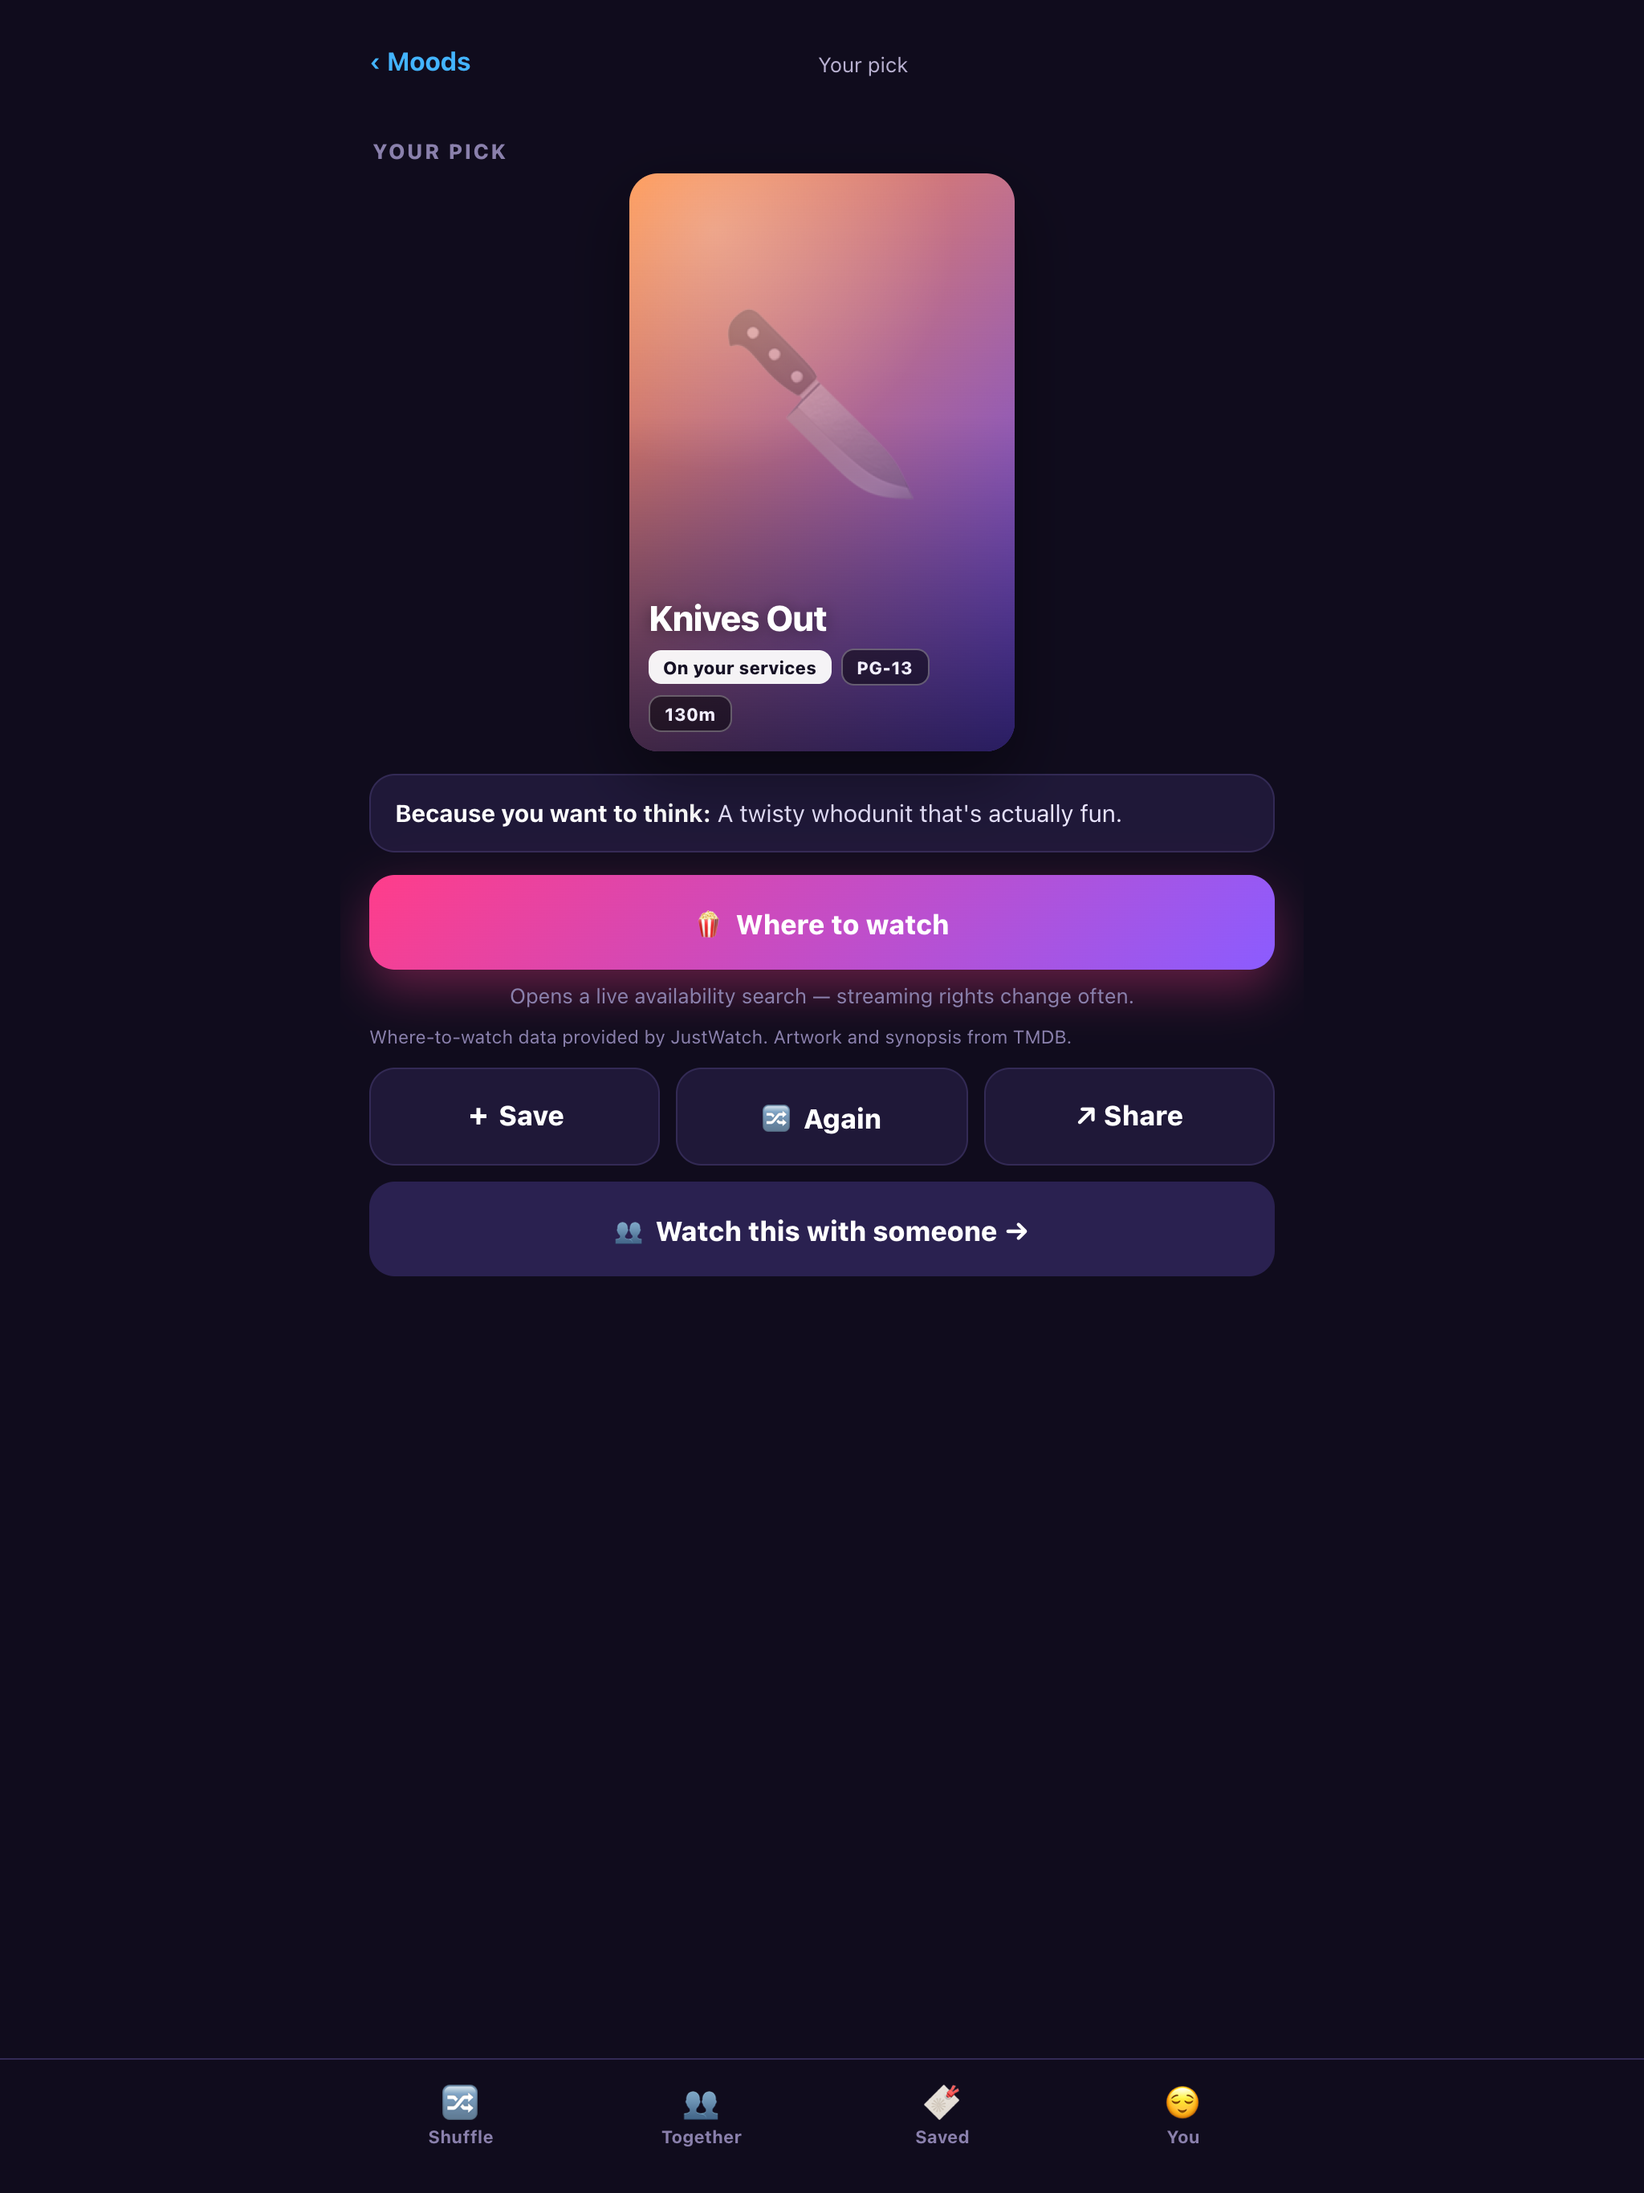
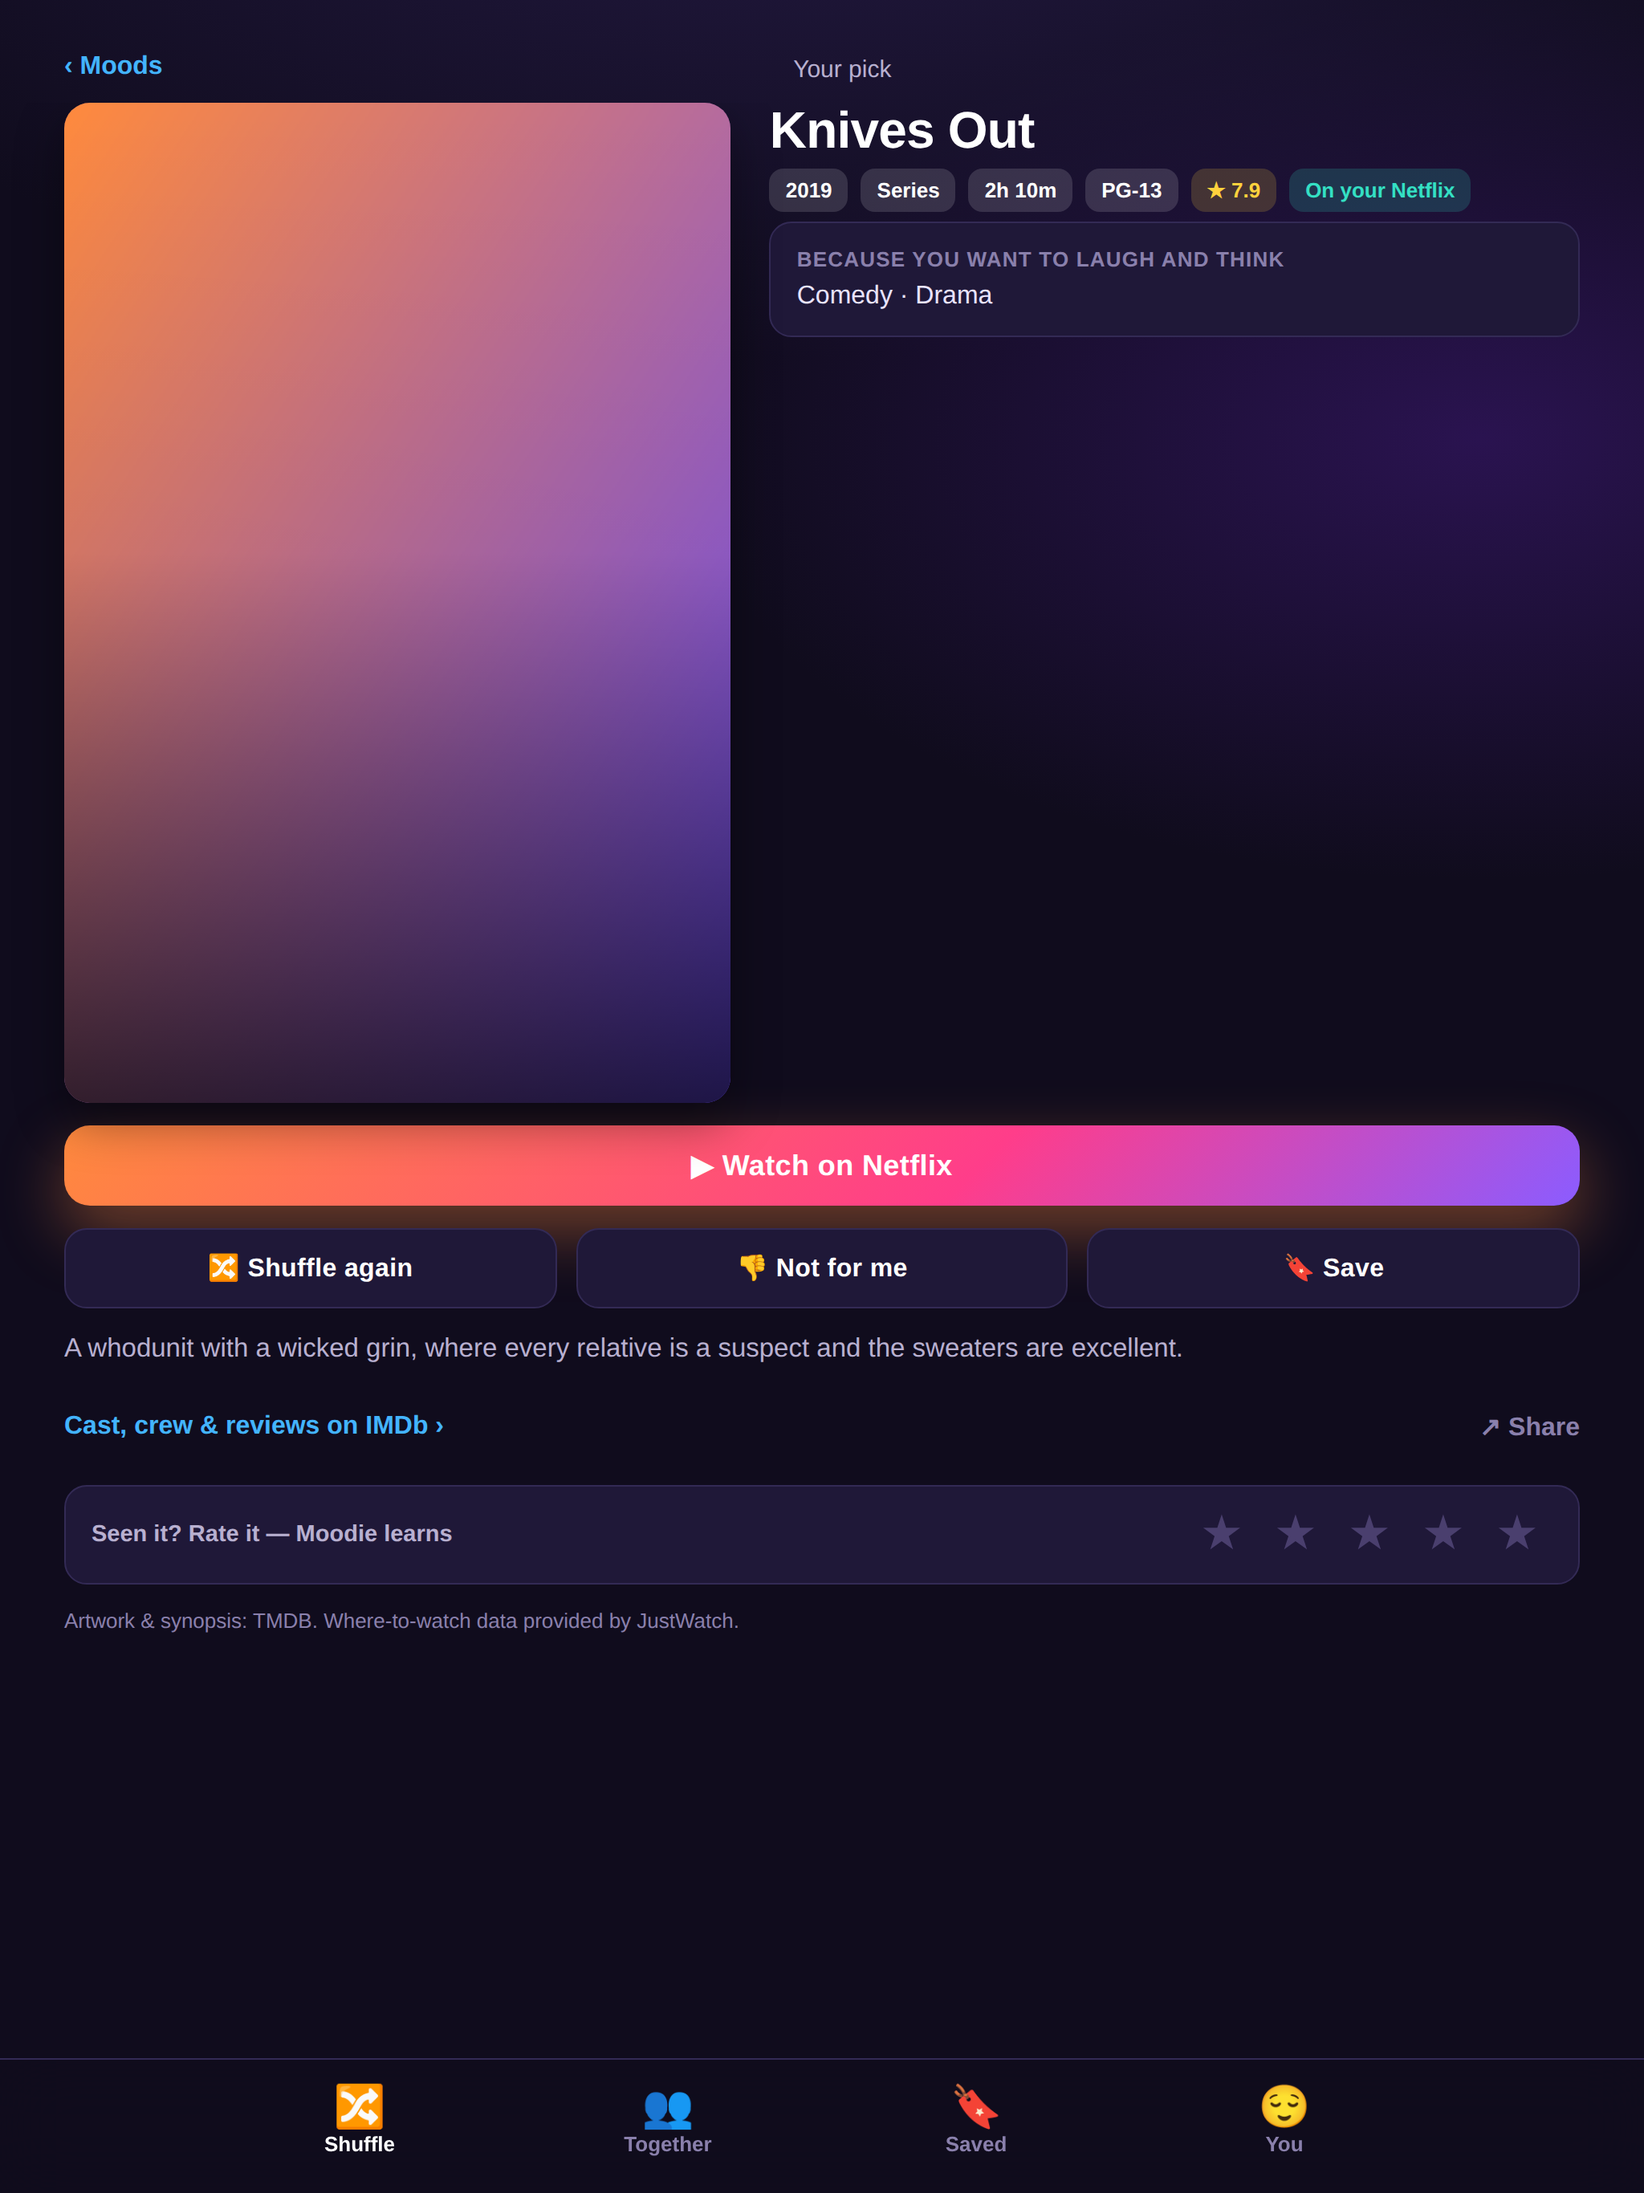
Moodie 1.2: fill the iPad and iPhone Duo, and change layout sideways (#2)
Jonathan (2026-10-11): the big-screen layouts must cover the whole screen
and visibly change in landscape, for every app.

- www/index.html: replace the 1.1 rule that capped every screen at a 640px
  centred column. >=600pt (Duo open, iPad portrait) uses the full width
  with larger type and taps; >=740pt moods become a five-across wall of
  tall tiles; >=860pt You and Together setup split into two columns; when
  >=860pt and wider than tall the pick puts the poster beside everything
  else. Below 600pt nothing changes (iPhone and Duo closed renders are
  byte-identical to 1.1). Tab bar spans the width, tabs centred.
- codemagic.yaml: iPad orientations written explicitly (all four) and read
  back; the build fails if they or TARGETED_DEVICE_FAMILY "1,2" are
  missing (ITMS-90474). The render step fails if no 13" iPad set exists.
  Marketing version 1.2.
- scripts/layout-check.mjs (npm run layout): renders every screen at 8
  sizes, fails on sideways scroll or an unreachable last control.
- New 13" iPad screenshots from the shipping UI; What's New for 1.2.
  TMDB/JustWatch credits and content-rights answers unchanged.

Claude-Session: https://claude.ai/code/session_01QBZG1zZFfE4ox5ZUSm5Rv4

diff --git a/www/index.html b/www/index.html
@@ -189,12 +189,148 @@
   .sentinel{height:1px}
   .sticky{position:sticky; top:0; z-index:5; background:var(--bg); padding:8px 0 10px; margin:0 -18px; padding-left:18px; padding-right:18px}
 
-  @media(min-width:620px){
-    .topbar,.screen-body,.pick{max-width:640px; margin-left:auto; margin-right:auto; width:100%}
-    .tabbar{justify-content:center} .tabbar .tab{flex:0 1 150px}
-    .grid3{grid-template-columns:repeat(5,1fr)}
-    .svcgrid{grid-template-columns:repeat(3,1fr)}
-    .pick .hero .poster{max-height:44vh}
+  /* ---- Big screens: iPhone Duo open, iPad (1.2) ------------------------------------
+     Width-based only, no device sniffing. Below 600px NOTHING here applies, so every
+     iPhone (and the Duo closed, ~466pt) renders exactly as 1.1 did.
+     The 1.1 rule capped every screen at a 640px column in the middle of the iPad, which
+     left most of the screen empty and never changed when the iPad turned sideways. */
+  @media(min-width:600px){
+    /* Duo open (~669), iPad portrait (744-1024): use the whole width, bigger type + taps. */
+    .topbar{padding:20px 32px 8px; min-height:60px}
+    .topbar h1{font-size:30px}
+    .topbar .sub{font-size:15px}
+    .screen-body{padding:0 32px 130px}
+    .screen-body.no-tab{padding-bottom:calc(var(--sab) + 24px)}
+    .screen-body.lock{padding-bottom:0}
+    .sticky{margin:0 -32px; padding-left:32px; padding-right:32px}
+    .ob-actions{padding-left:32px!important; padding-right:32px!important; justify-content:center}
+    .ob-actions .btn{max-width:420px}
+    .search{font-size:17px; padding:15px 16px}
+    .counter,.hint{font-size:14px}
+    .icon-btn{width:44px; height:44px}
+
+    #ob1 h1{font-size:44px!important}
+    #ob1 p{font-size:19px!important; max-width:560px}
+    #ob1 .mascot{width:156px!important; height:156px!important}
+
+    .mood-grid{grid-template-columns:repeat(2,1fr); gap:14px}
+    .mood{min-height:88px; padding:18px 16px; border-radius:22px; gap:12px}
+    .mood .em{font-size:38px}
+    .mood .lbl{font-size:19px}
+    .mood .hint2{font-size:13.5px}
+    .svcgrid{grid-template-columns:repeat(3,1fr); gap:12px}
+    .svc{min-height:60px}
+    .svc .nm{font-size:16px}
+    .grid3{grid-template-columns:repeat(4,1fr); gap:14px}
+    .grid2{grid-template-columns:repeat(3,1fr); gap:16px}
+    .poster .ptitle{font-size:15px}
+    .poster .psub{font-size:12.5px}
+
+    /* The screen body already gives the side margin here, so the pick lines up with the
+       back button instead of being indented twice. */
+    .pick{padding:0; gap:14px}
+    .pick .hero{gap:24px}
+    .pick .hero .poster{width:44%; max-height:50vh}
+    .pick .title{font-size:32px}
+    .pick .meta{gap:8px}
+    /* .badge.svc / .badge.star share a class name with the service and star buttons; on a
+       big screen don't let those button sizes leak into the little badges. */
+    .pick .badge{font-size:13px; padding:6px 10px; min-height:0; border:none; border-radius:9px}
+    .pick .why{font-size:16px; padding:14px 16px}
+    .pick .why b{font-size:13px}
+    .pick .quick{gap:12px}
+    .pick .quick .btn{font-size:16px; padding:14px 10px}
+    .pick .syn{font-size:16.5px; -webkit-line-clamp:6}
+    .pick .links .pill{font-size:16px; min-height:44px}
+    .rate{padding:8px 16px}
+    .rate .lbl{font-size:14.5px}
+    .stars .star{font-size:30px; min-width:44px; min-height:44px; text-align:center}
+    .credit{font-size:13px}
+
+    .card{padding:20px; border-radius:22px}
+    .card h3{font-size:19px}
+    .card p{font-size:15.5px}
+    .rowitem{min-height:56px}
+    .rowitem .name{font-size:17px}
+    .rowitem .desc{font-size:14px}
+    .section-title{font-size:14px}
+    .chip{font-size:15px; padding:11px 15px; min-height:44px}
+    .input{font-size:16px; padding:14px 16px}
+
+    /* The tab bar spans the full width; its four tabs sit together in the middle, the way
+       iPad tab bars do, instead of being flung to the four corners of a 1366pt screen. */
+    .tabbar{justify-content:center; gap:12px; height:calc(var(--sab) + 84px)}
+    .tabbar .tab{flex:0 1 180px; font-size:13px; padding:8px 16px}
+    .tab .ti{font-size:26px}
+    .toast{font-size:15px; bottom:calc(var(--sab) + 108px)}
+  }
+  @media(min-width:740px){
+    /* Moods: one wall of ten tall tiles, five across, emoji above the words. */
+    .mood-grid{grid-template-columns:repeat(5,1fr)}
+    .mood{flex-direction:column; align-items:flex-start; justify-content:space-between; min-height:clamp(124px,17vh,200px); padding:16px}
+  }
+  @media(min-width:860px){
+    /* Duo open sideways (~951), iPad landscape (1133-1366), 13" iPad portrait (1024).
+       The layout changes shape here, not just size. */
+    .topbar{padding-left:40px; padding-right:40px}
+    .screen-body{padding-left:40px; padding-right:40px}
+    .sticky{margin:0 -40px; padding-left:40px; padding-right:40px}
+    .ob-actions{padding-left:40px!important; padding-right:40px!important}
+
+    .mood-grid{gap:16px}
+    .mood .em{font-size:44px}
+    #home .shuffle-btn,#groupsBody > .btn{max-width:560px; margin-left:auto; margin-right:auto}
+    .svcgrid{grid-template-columns:repeat(4,1fr)}
+    .grid3{grid-template-columns:repeat(6,1fr)}
+    .grid2{grid-template-columns:repeat(5,1fr); gap:18px}
+
+    /* You: two columns of cards. Children of #profileBody, in renderProfile() order:
+       1 header · 2/3 services · 4/5 picks · 6/7 ratings · 8/9 pals · 10/11 about · 12 credit line */
+    #profileBody{display:grid; grid-template-columns:minmax(0,1fr) minmax(0,1fr); column-gap:28px; align-content:start; align-items:start}
+    #profileBody > :nth-child(1),#profileBody > :nth-child(n+10){grid-column:1 / -1}
+    #profileBody > :nth-child(2){grid-column:1; grid-row:2}
+    #profileBody > :nth-child(3){grid-column:1; grid-row:3}
+    #profileBody > :nth-child(4){grid-column:2; grid-row:2}
+    #profileBody > :nth-child(5){grid-column:2; grid-row:3}
+    #profileBody > :nth-child(6){grid-column:1; grid-row:4}
+    #profileBody > :nth-child(7){grid-column:1; grid-row:5}
+    #profileBody > :nth-child(8){grid-column:2; grid-row:4}
+    #profileBody > :nth-child(9){grid-column:2; grid-row:5}
+    #profileBody .svcgrid{grid-template-columns:repeat(2,1fr)}
+
+    /* Together setup: intro across the top, "who" and "limit" side by side. (:has() needs
+       iOS 15.4+; older iPads simply keep the single column, which still fits.) */
+    #groupsBody:has(#pairCap){display:grid; grid-template-columns:minmax(0,1fr) minmax(0,1fr); column-gap:28px; align-content:start; align-items:start}
+    #groupsBody:has(#pairCap) > :nth-child(1),#groupsBody:has(#pairCap) > :nth-child(6){grid-column:1 / -1}
+    #groupsBody:has(#pairCap) > :nth-child(2){grid-column:1; grid-row:2}
+    #groupsBody:has(#pairCap) > :nth-child(3){grid-column:1; grid-row:3}
+    #groupsBody:has(#pairCap) > :nth-child(4){grid-column:2; grid-row:2}
+    #groupsBody:has(#pairCap) > :nth-child(5){grid-column:2; grid-row:3}
+    #groupsBody:has(#pairCap) > .btn{width:100%; margin-top:24px!important}
+  }
+  @media(min-width:860px) and (min-aspect-ratio:1/1){
+    /* Sideways: the pick becomes poster-left / everything-else-right, sized so the poster
+       fits the height that is left between the top bar and the tab bar. */
+    .pick{display:grid; grid-template-columns:auto minmax(0,1fr); column-gap:36px; row-gap:14px; align-content:start; height:auto}
+    .pick .hero{display:contents}
+    .pick .hero .poster{grid-column:1; grid-row:1 / span 7; align-self:start; max-height:none;
+      width:min(34vw, calc((100vh - var(--sat) - var(--sab) - 190px) * 2 / 3))}
+    .pick > :not(.hero),.pick .hero .info{grid-column:2; min-width:0}
+    .pick .grow{display:none}
+    .pick .bottom{grid-column:1 / -1}
+    /* If a short window cannot hold it all, the pick scrolls rather than hiding the stars. */
+    .screen-body.lock{overflow-y:auto}
+  }
+  @media(min-width:860px) and (min-aspect-ratio:1/1) and (max-height:760px){
+    /* Duo open sideways (~669 tall): tighten so the whole pick fits without scrolling. */
+    .pick{row-gap:10px}
+    .pick .title{font-size:26px}
+    .pick .why{padding:10px 14px; font-size:15px}
+    .pick .quick .btn{font-size:15px; padding:11px 8px}
+    .pick .syn{font-size:15px; -webkit-line-clamp:2}
+    .pick .links .pill{padding:0}
+    .stars .star{font-size:26px}
+    .pick .bottom{padding-bottom:calc(var(--sab) + 90px)}
   }
 </style>
 </head>
@@ -224,7 +360,7 @@
       <div class="svcgrid" id="svcGrid"></div>
       <div class="hint" id="svcNote"></div>
     </div>
-    <div style="padding:12px 18px calc(var(--sab) + 12px);display:flex;gap:10px">
+    <div class="ob-actions" style="padding:12px 18px calc(var(--sab) + 12px);display:flex;gap:10px">
       <button class="btn secondary" style="flex:.5" onclick="showScreen('ob3');buildTaste()">Skip</button>
       <button class="btn" style="flex:1" id="svcContinue" onclick="showScreen('ob3');buildTaste()">Continue</button>
     </div>
@@ -240,7 +376,7 @@
       <div class="sentinel" id="tasteSentinel"></div>
       <div class="hint" id="tasteMore">Loading…</div>
     </div>
-    <div style="padding:12px 18px calc(var(--sab) + 12px);display:flex;gap:10px">
+    <div class="ob-actions" style="padding:12px 18px calc(var(--sab) + 12px);display:flex;gap:10px">
       <button class="btn secondary" style="flex:.5" onclick="finishOnboarding()">Skip</button>
       <button class="btn" style="flex:1" onclick="finishOnboarding()">Start shuffling 🔀</button>
     </div>
@@ -297,7 +433,7 @@
 </div>
 <script>
 /* ================================================================================
-   Moodie 1.1 — the redesign.
+   Moodie 1.1 — the redesign. 1.2 — made for iPad and the iPhone Duo (see "Big screens" in the CSS).
    One HTML file, no framework, no build step. Everything the user does stays on the
    phone (Capacitor Preferences). Titles, art, synopses and where-to-watch come from
    TMDB at runtime (credited below — that credit is a licence condition).

diff --git a/README.md b/README.md
@@ -3,3 +3,18 @@
 Moodie: what to watch tonight, by mood. iOS app wrapped with Capacitor.
 
 Built and signed in the cloud with Codemagic (see `codemagic.yaml`) and delivered to TestFlight / App Store Connect (app id 6788245223, bundle `com.jonathanbiles.moodie`).
+
+## Big screens (1.2)
+
+Moodie is universal (iPhone + iPad, all four iPad orientations — `codemagic.yaml` writes and
+reads them back). `www/index.html` "Big screens" CSS: below 600pt nothing changes; 600pt+
+(iPhone Duo open, iPad portrait) uses the full width; 860pt+ changes shape (five-across mood
+wall, two-column You and Together setup, and — when wider than tall — poster beside the pick).
+
+    npm install --no-save playwright-core
+    PW_EXEC=/path/to/chromium npm run layout -- /tmp/moodie-layout
+
+renders every screen at iPhone, Duo (closed/open/sideways) and iPad 11"/13" (both ways), and
+fails on sideways scroll or an unreachable last control. Needs a browser, so it is not in
+`npm test` (which is the listing lint). The 13" iPad App Store set is rendered on every build
+by `store-assets/render_shots_1_1.mjs` and uploaded by `fastlane deliver`.
